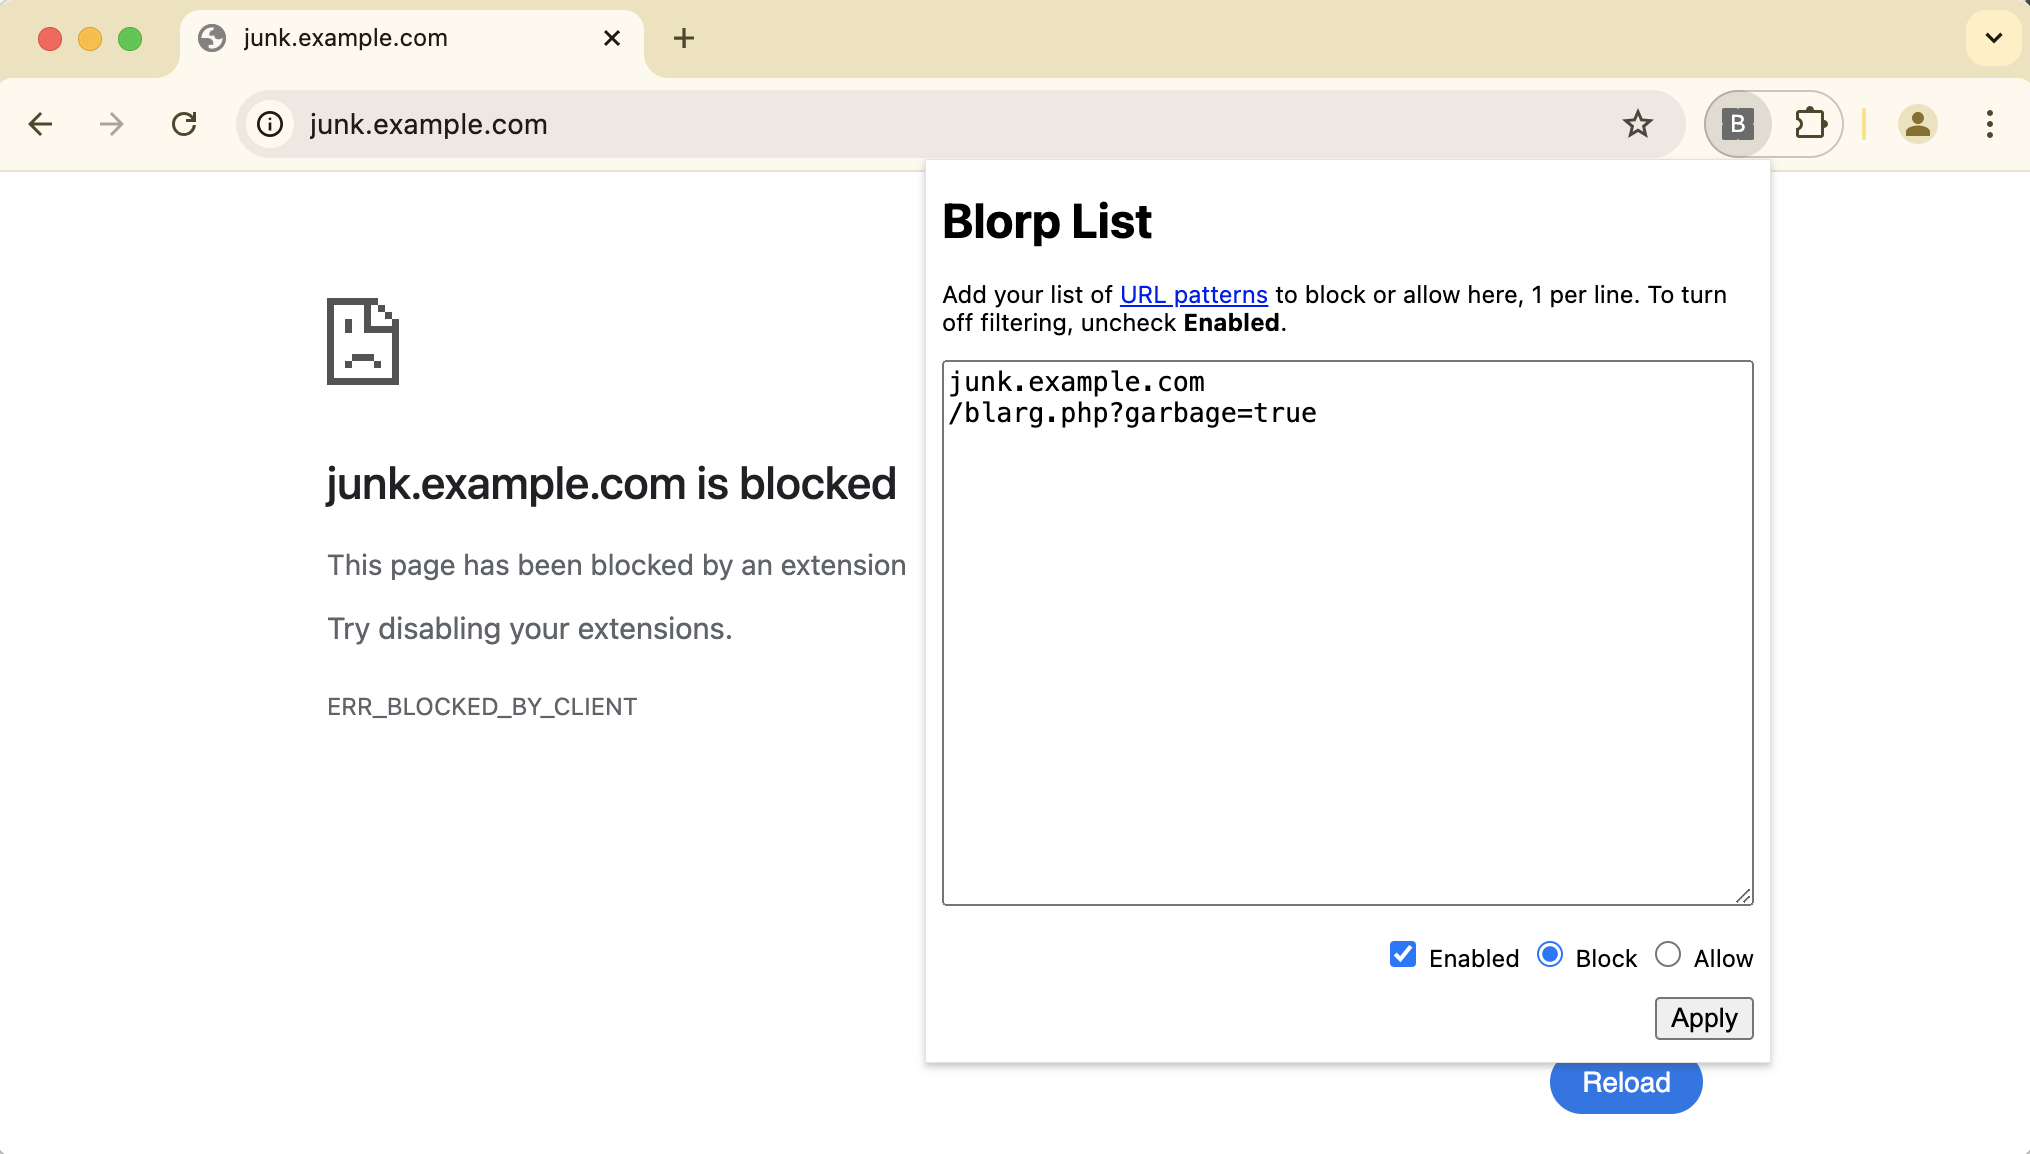
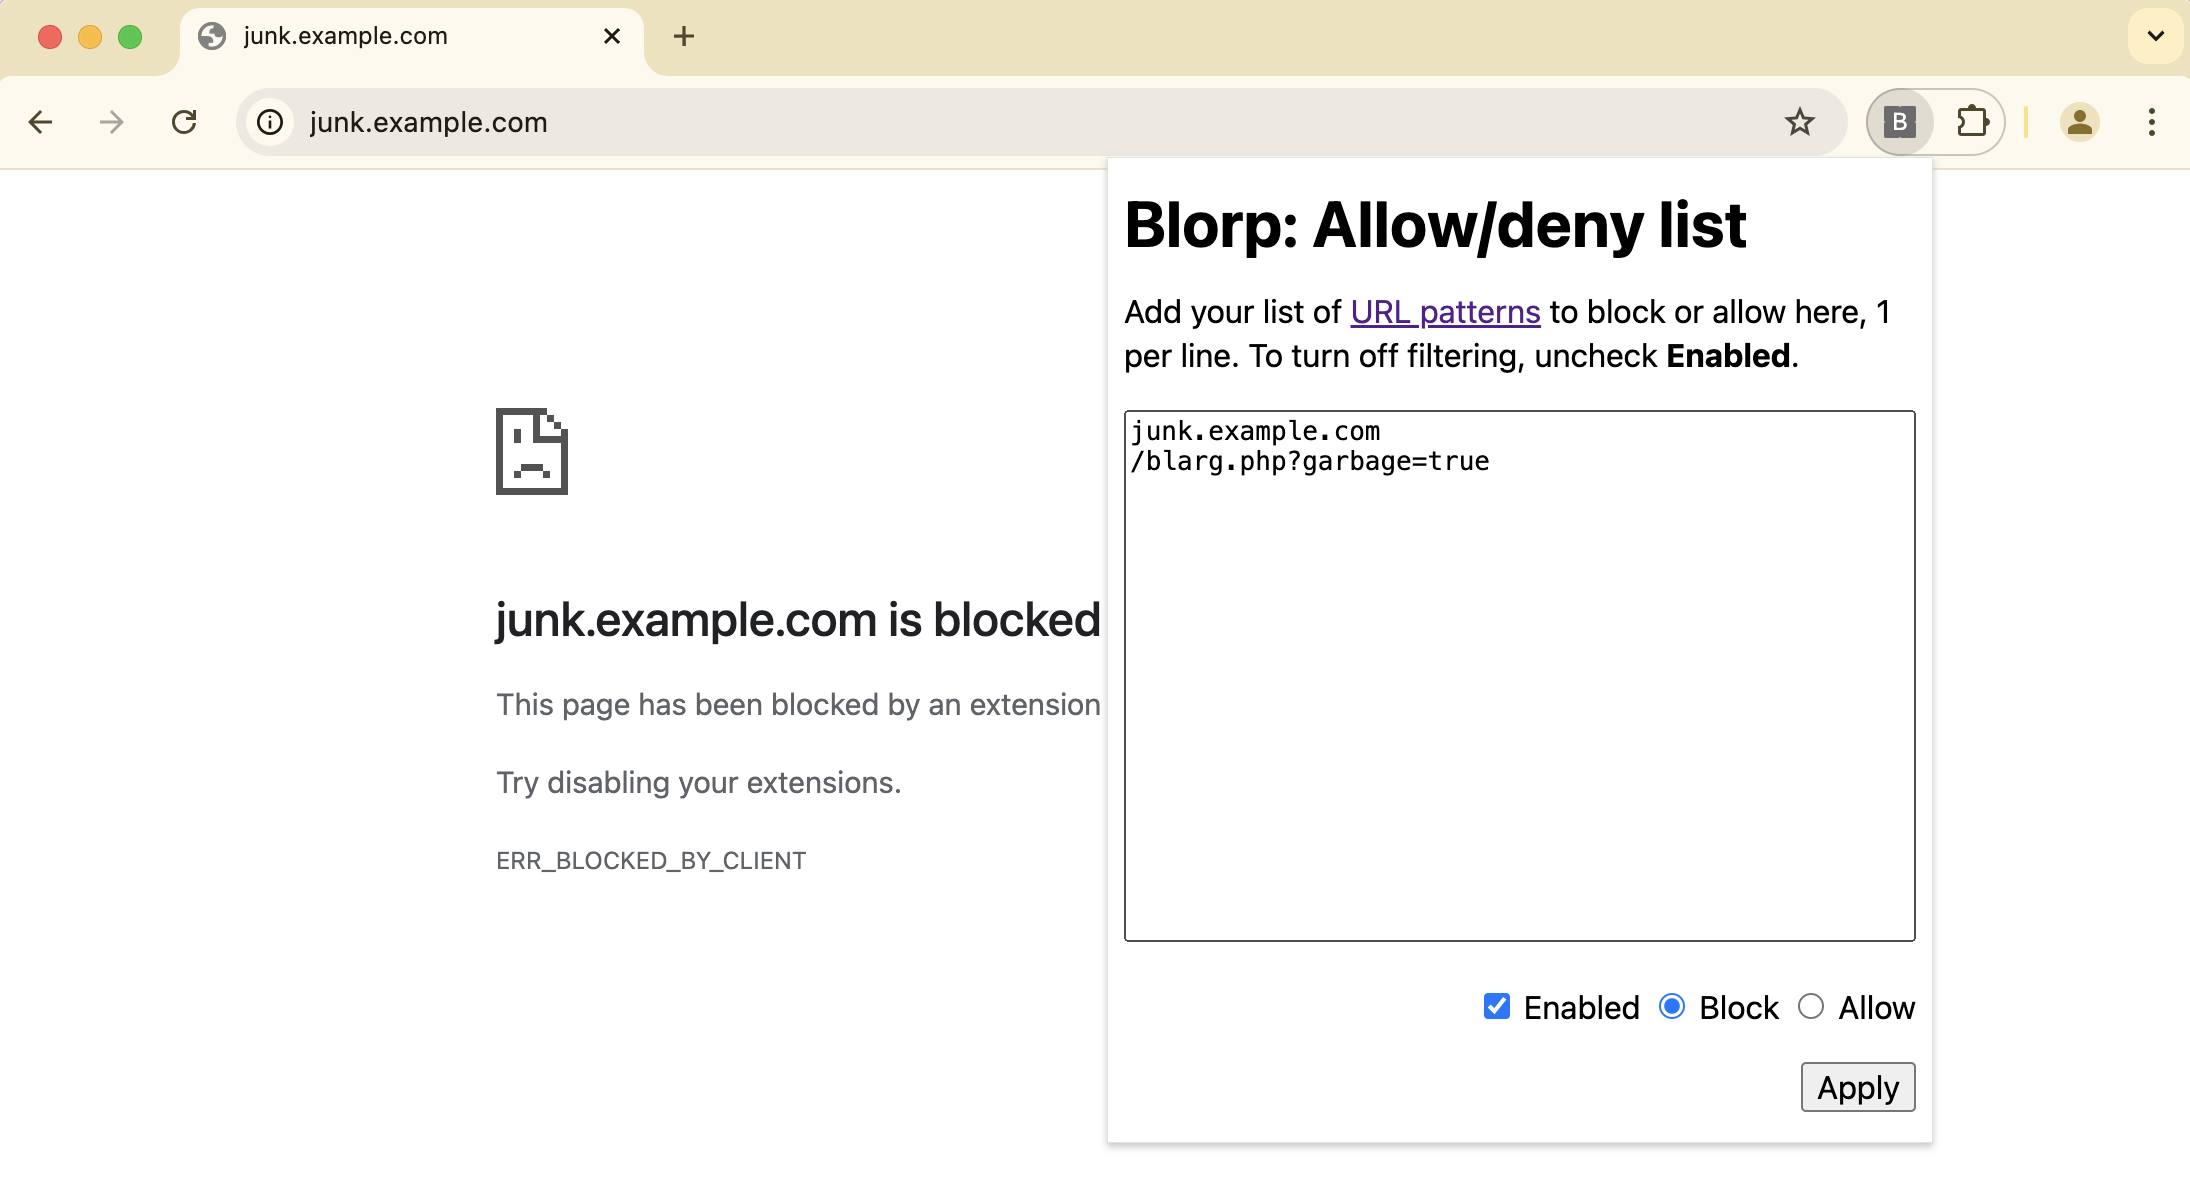
Give the pop-up more of a title
Do some more CSS, for bigger text and touch
targets.

diff --git a/popup.html b/popup.html
@@ -7,9 +7,9 @@ SPDX-License-Identifier: Apache-2.0
 <meta charset=utf-8>
 <meta name=viewport content="width=device-width,initial-scale=1">
 <link rel="stylesheet" href="popup.css" />
-<title>Blorp</title>
+<title>Blorp: Allow/deny list</title>
 
-<h1>Blorp List</h1>
+<h1>Blorp: Allow/deny list</h1>
 
 <p>Add your list of <a
         href="https://developer.chrome.com/docs/extensions/mv3/match_patterns/"

diff --git a/popup.css b/popup.css
@@ -1,6 +1,20 @@
+body {
+  line-height: 140%;
+  font-family: system-ui;
+  font-size: 100%;
+}
+
+input {
+  font-family: inherit;
+  font-size: inherit;
+}
+
 textarea {
   width: 30em;
   height: 20em;
+  resize: none;
+  font-family: monospace;
+  font-size: inherit;
 }
 
 #buttonsDiv {

diff --git a/README.md b/README.md
@@ -1,4 +1,4 @@
-# Blorp
+# Blorp: Simple site allow/deny list
 
 Blorp is the simplest possible content blocker for browsers that use the
 Chromium extension API. At your choice, it blocks the loading of URLs that match
